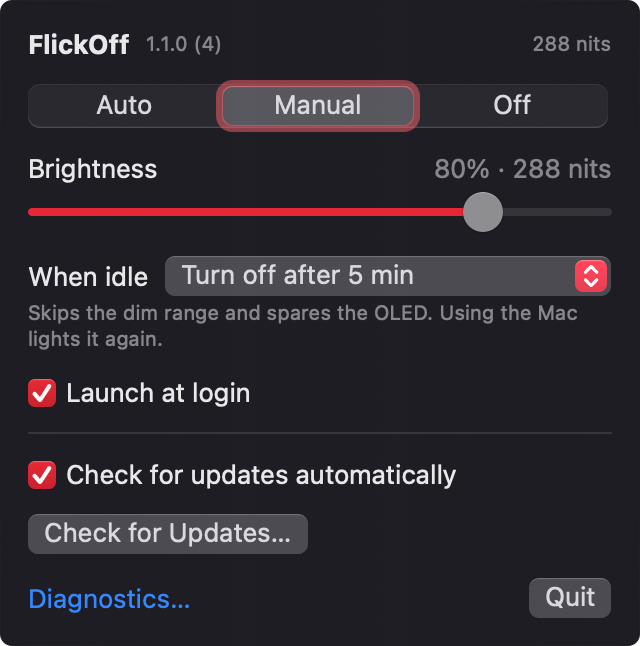
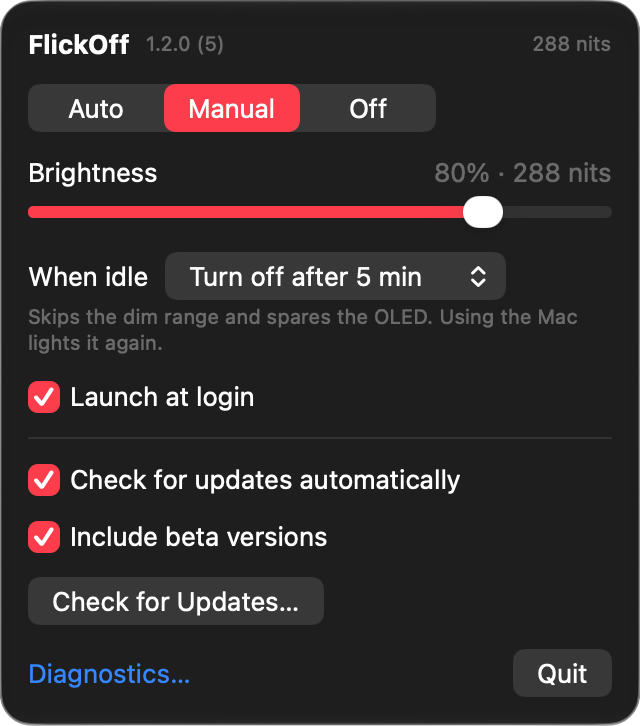
Record the release checks of 1.2.0-beta.1
The installed build 4 updated itself to the CI-built build 5 through the feed about
to be published. TESTING.md says what that established and what it still doesn't. The
screenshot now shows the released menu.

diff --git a/docs/TESTING.md b/docs/TESTING.md
@@ -46,6 +46,17 @@ invalid stored levels, idle power-off with real posted input and an outside wake
 a second copy exiting, the controls window on reopening, and restoration of user
 preferences. The previously running installed app was reopened afterward.
 
+## The real update
+
+On the same machine, the installed build 4, which the installer had left owned by
+root, updated itself to build 5 through **Check for Updates…**, with the signed feed
+that was then published and an administrator's approval. Afterwards the app was still
+owned by root, its signature was valid, and its files were identical to the release
+ZIP that CI built and attested. The login item stayed enabled with no setup issues,
+the mode and level were kept, and **When idle** became **Stay lit**, the behaviour it
+had before. All checks in this document ran against those CI-built files, except the
+unit and hardware tests, which build from the same commit.
+
 ## The real menu
 
 Driven with real clicks on the same machine: the slider, the **When idle** list,
@@ -60,7 +71,13 @@ icon and as a button in the menu, with no alert until that button was pressed.
 ## Energy use
 
 With the menu closed and nothing changing, `top` over 60 seconds on battery measured
-about **0.10% CPU**, down from about 2.2% for build 4 in the same conditions.
+about **0.10% CPU**, down from about 2.2% for build 4 in the same conditions. The same
+holds for build 5 as installed by the update above.
+
+## Homebrew
+
+A local tap of this repository installed the cask into a temporary folder. The copy was
+owned by the user and had no quarantine flag, and it opened with no Gatekeeper prompt.
 
 The current login-item status is enabled; this read-only check does not establish
 that an actual logout/login cycle launches the app correctly.
@@ -102,9 +119,8 @@ cycle has not been performed.
 
 ## What this does not establish
 
-Not yet tried on real hardware: updating the actual installed app and checking its
-login item afterward, a real logout/login cycle, reconnecting when services really
-start late, a second user with fast user switching, and what touching a dark panel
+Not yet tried on real hardware: a real logout/login cycle, reconnecting when services
+really start late, a second user with fast user switching, and what touching a dark panel
 does. An outside wake is simulated by turning the panel on through the service.
 
 API return values and reported state do not measure visible light output. These

diff --git a/docs/RELEASING.md b/docs/RELEASING.md
@@ -70,12 +70,12 @@ signing key reaches CI. See [update publishing](UPDATES.md) for the key itself.
 5. Try the update on a real installation with the feed that will be published:
 
    ```sh
-   (cd build/release-1.2.0-beta.1 && python3 -m http.server 8931 --bind 127.0.0.1) &
-   defaults write io.github.ZheMaxy.FlickOff SUFeedURL http://127.0.0.1:8931/appcast.xml
+   defaults write io.github.ZheMaxy.FlickOff SUFeedURL \
+       https://github.com/ZheMaxy/FlickOff/releases/download/v1.2.0-beta.1/appcast.xml
    ```
 
    Choose **Check for Updates…** in the installed app and install it. Check the version,
-   your settings and the login item, then stop the server and remove the override:
+   your settings and the login item, then remove the override:
 
    ```sh
    defaults delete io.github.ZheMaxy.FlickOff SUFeedURL
